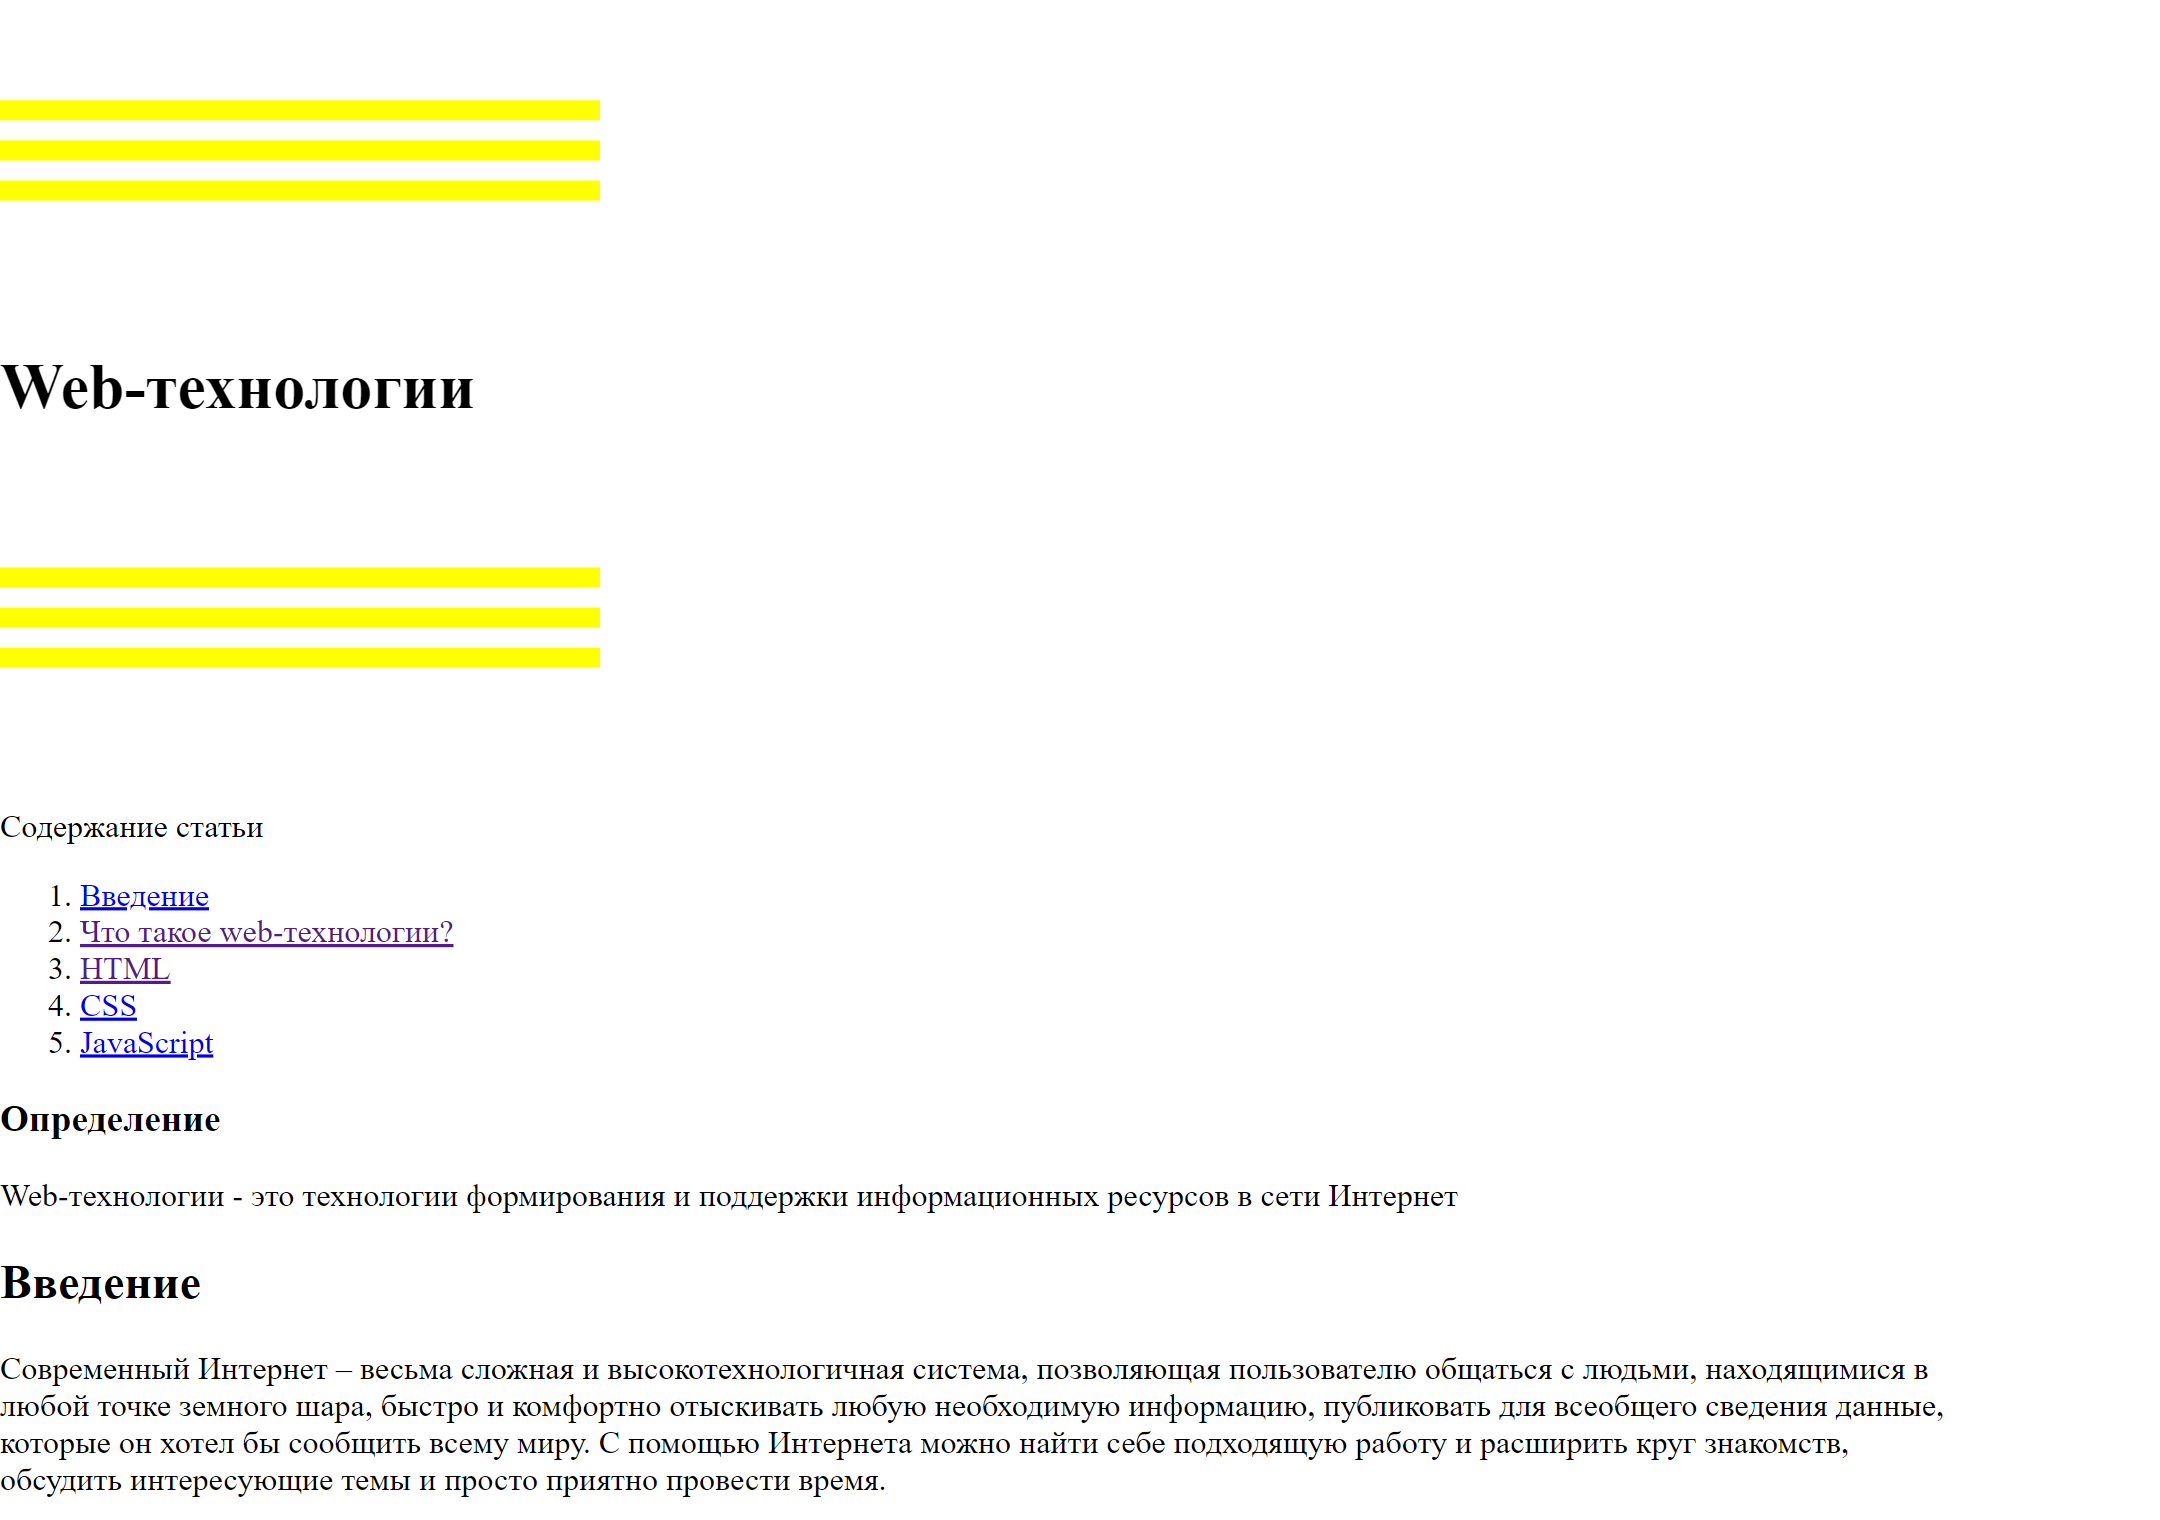
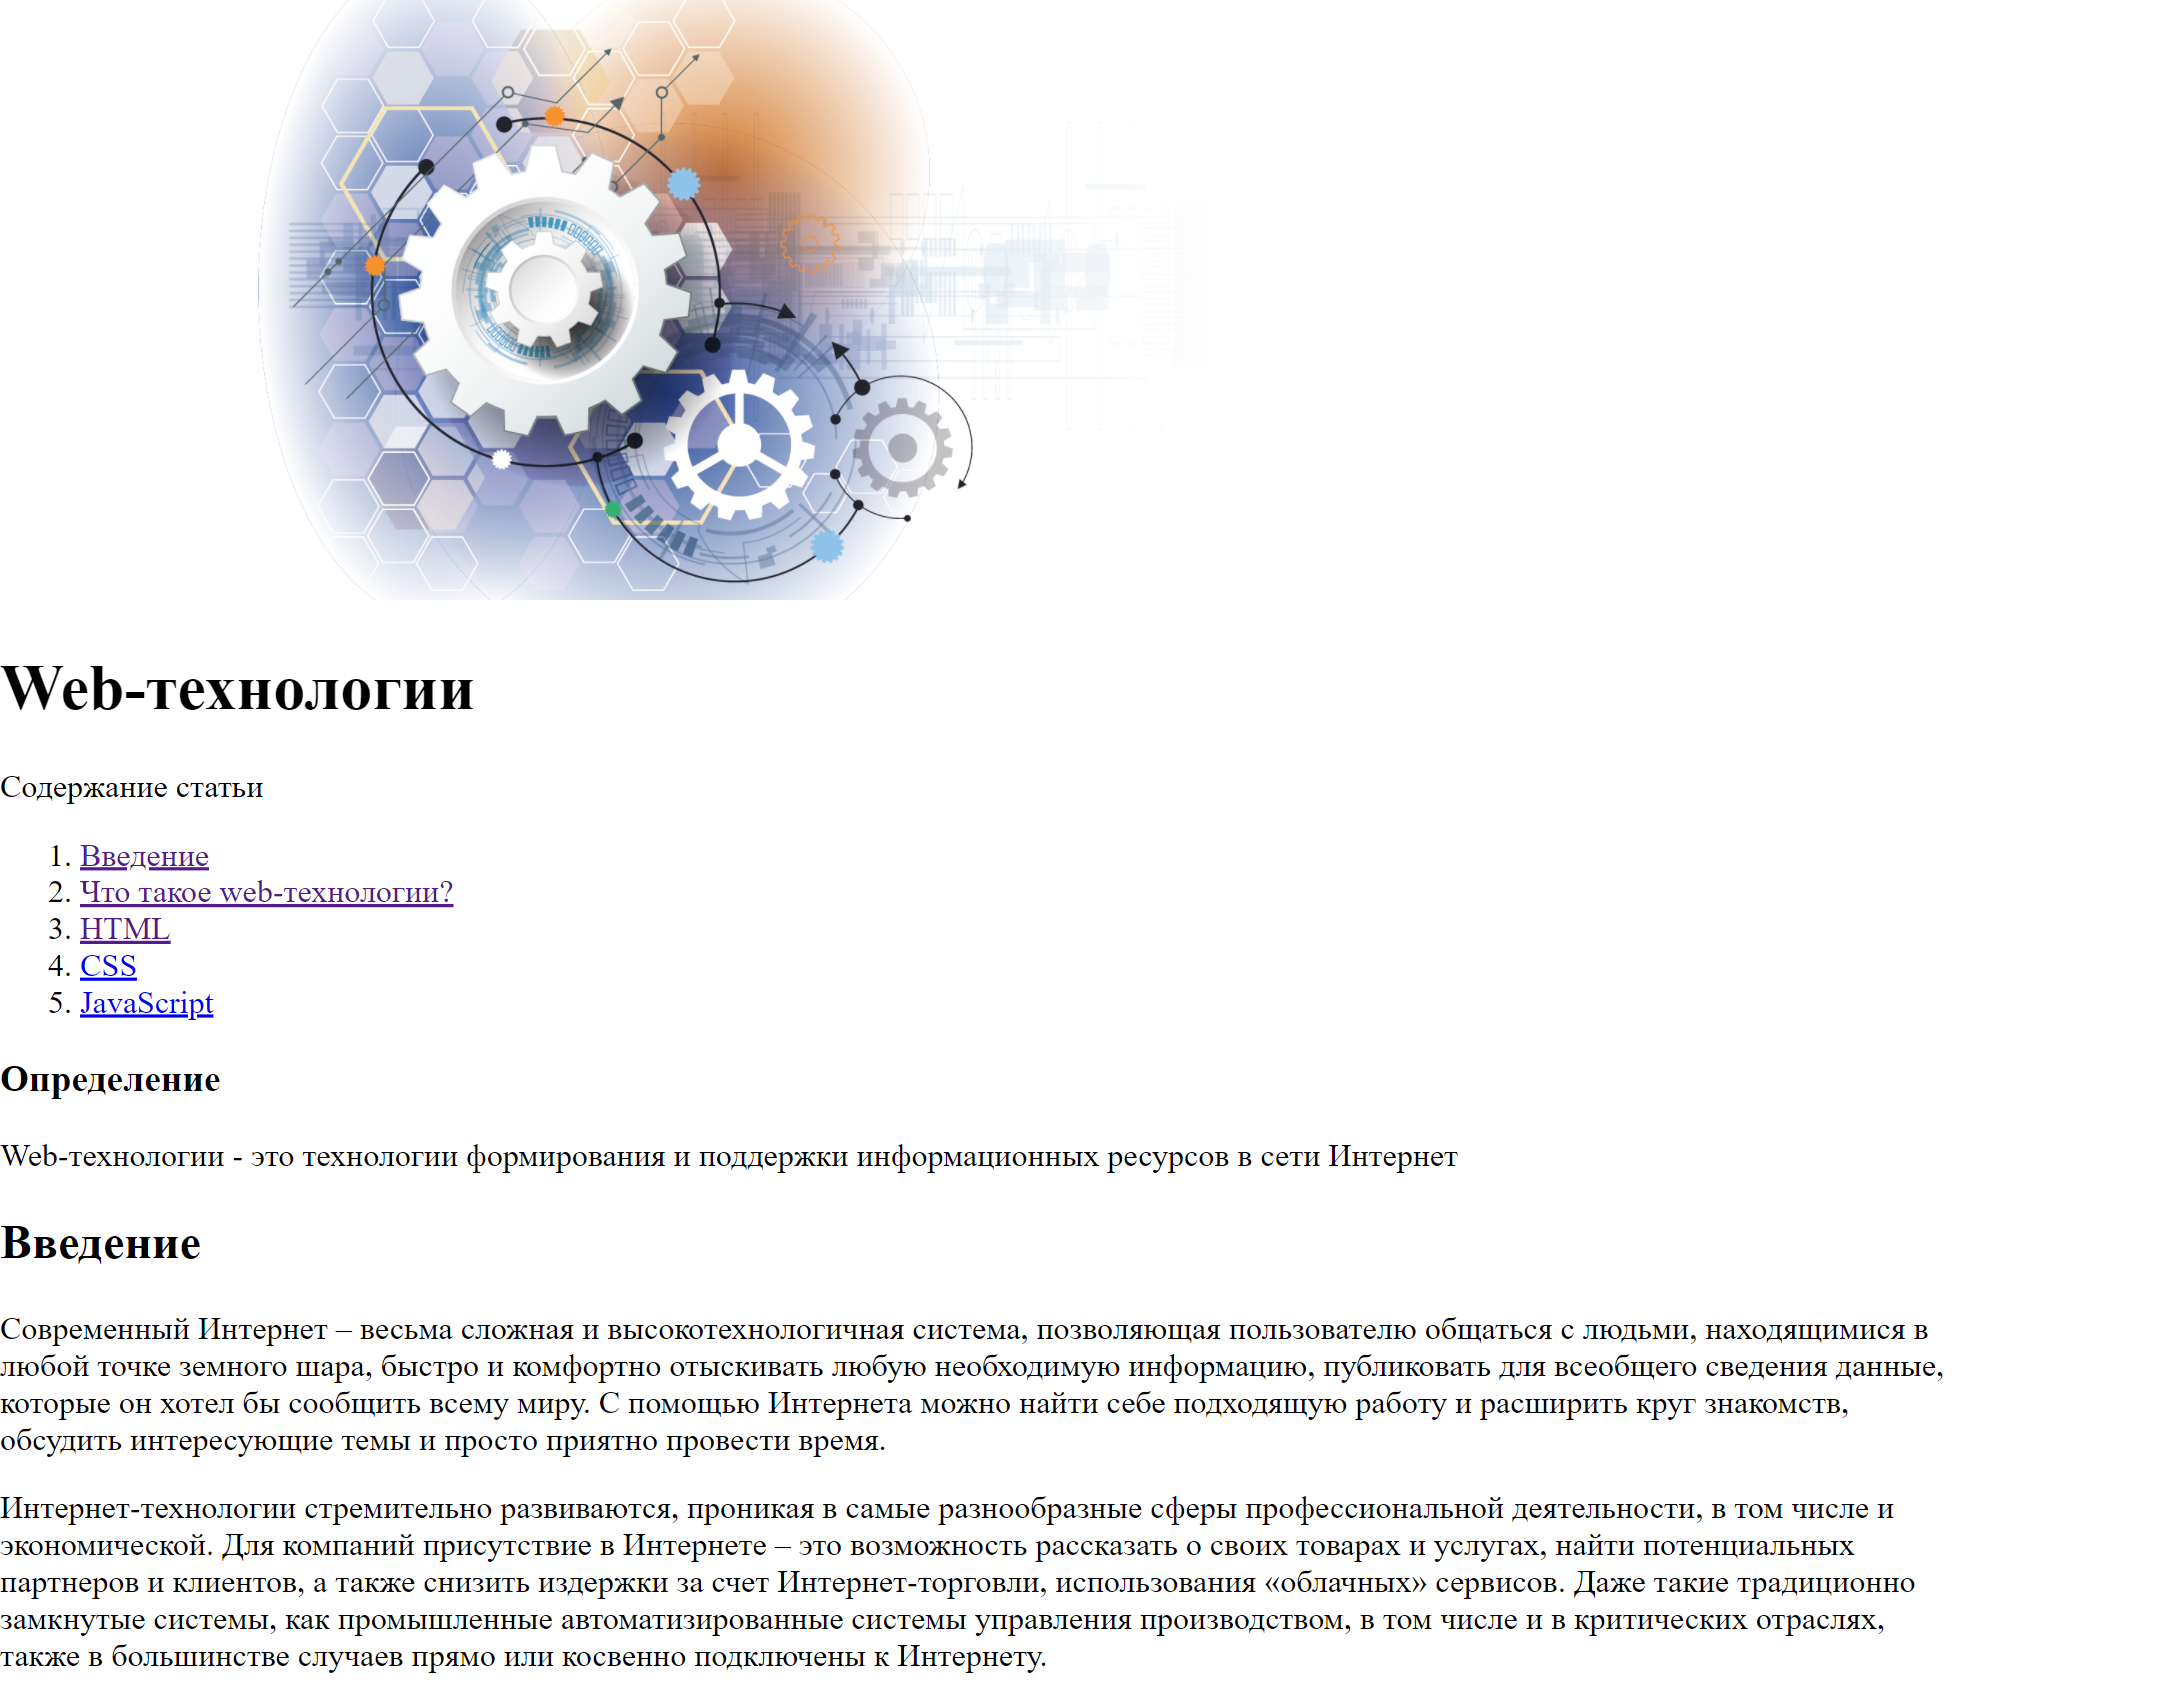
дополнения

Changed region(s): [[0.0, 0.0, 0.8995, 0.9895]]

diff --git a/index.html b/index.html
@@ -40,16 +40,19 @@
           любой точке земного шара, быстро и комфортно отыскивать любую необходимую информацию, публиковать для всеобщего сведения данные, которые он хотел бы сообщить всему миру. С помощью Интернета можно
           найти себе подходящую работу и расширить круг знакомств, обсудить интересующие темы и просто приятно провести время.
         </p>
+        <p>Интернет-технологии стремительно развиваются, проникая в самые разнообразные сферы профессиональной деятельности, в том числе и экономической. Для компаний присутствие в Интернете – это возможность рассказать о своих товарах и услугах, найти потенциальных партнеров и клиентов, а также снизить издержки за счет Интернет-торговли, использования «облачных» сервисов. Даже такие традиционно замкнутые системы, как промышленные автоматизированные системы управления производством, в том числе и в критических отраслях, также в большинстве случаев прямо или косвенно подключены к Интернету.</p>
         <div class="image">
           <img src="img\webtechnology.jpg" width="1080px" height="420px" alt="Технологии">
         </div>
-        <p>Интернет-технологии стремительно развиваются, проникая в самые разнообразные сферы профессиональной деятельности, в том числе и экономической. Для компаний присутствие в Интернете – это возможность рассказать о своих товарах и услугах, найти потенциальных партнеров и клиентов, а также снизить издержки за счет Интернет-торговли, использования «облачных» сервисов. Даже такие традиционно замкнутые системы, как промышленные автоматизированные системы управления производством, в том числе и в критических отраслях, также в большинстве случаев прямо или косвенно подключены к Интернету.</p>
 
         <h2 id="part2">Что такое web-технологии?</h2>
         <p>Под «веб-технологиями» обычно подразумеваются языки разметки, языки программирования, базы данных, системы и платформы CMS и другие технологии, которые позволяют создавать веб-сайты, приложения и магазины. Люди, которые делают это, называются веб-разработчиками или веб-мастерами.</p>
         <p>Есть два типа веб-технологий. Первый, так называемый front-end - это тот, который отвечают за внешний вид сайта, и виден в браузере пользователя. Такие технологии включают HTML, CSS, JavaScript. Второй тип веб-технологий - back-end, который работает на сервере и используется для обработки данных. Их действие обычно невидимо для пользователя, видны только введенные данные или действия, выполненные на веб-сайте, и результат этих данных или действий. Таким образом, весь процесс выполнения выходит за рамки браузера.</p>
 
-        <h2 id="part3">HTML</h2>
+        <div class="header-html">
+          <div class="html-logo"></div>
+          <h2 id="part3">HTML</h2>
+        </div>
         <section class="definition container">
           <h3>Определение</h3>
           <p>HTML (от английского HyperText Markup Language) — это язык гипертекстовой разметки страницы. Он используется для того, чтобы дать браузеру понять, как нужно отображать загруженный сайт.</p>
@@ -60,7 +63,10 @@
           <img src="img\screen-html.png" width="1050px" alt="Скриншот страницы HTML">
         </figure>
 
-        <h2 id="part4">CSS</h2>
+        <div class="header-css">
+          <div class="css-logo"></div>
+          <h2 id="part4">CSS</h2>
+        </div>
         <section class="definition container">
           <h3>Определение</h3>
           <p>CSS (Cascading Style Sheets, каскадные таблицы стилей) — язык описания внешнего вида HTML-документа.</p>
@@ -71,7 +77,10 @@
           <img src="img\screen-css.png" width="1050px" alt="Скриншот страницы HTML+CSS">
         </figure>
 
-        <h2 id="part5">JavaScript</h2>
+        <div class="header-js">
+          <div class="js-logo"></div>
+          <h2 id="part5">JavaScript</h2>
+        </div>
         <section class="definition container">
           <h3>Определение</h3>
           <p>JavaScript – это язык программирования, который добавляет интерактивность на ваш веб-сайт</p>

diff --git a/css/style.css b/css/style.css
@@ -122,8 +122,58 @@ main {
   line-height: 30px;
 }
 
-.content h2 {
-  margin-top: 50px ;
+.header-html {
+  position: relative;
+  width: 160px;
+  padding-top: 50px;
+  padding-bottom: 10px;
+}
+
+.html-logo {
+  position: absolute;
+  background-image: url(../img/html-logo.png);
+  background-size: 100%;
+  background-repeat: no-repeat;
+  height: 70px;
+  width: 70px;
+  right: 0;
+  margin-top: 5px;
+}
+
+.header-css {
+  position: relative;
+  width: 140px;
+  padding-top: 50px;
+  padding-bottom: 10px;
+}
+
+.css-logo {
+  position: absolute;
+  background-image: url(../img/css-logo.png);
+  background-size: 100%;
+  background-repeat: no-repeat;
+  height: 70px;
+  width: 70px;
+  right: 0;
+  margin-top: 5px;
+}
+
+.header-js {
+  position: relative;
+  width: 230px;
+  padding-top: 50px;
+  padding-bottom: 10px;
+}
+
+.js-logo {
+  position: absolute;
+  background-image: url(../img/js-logo.png);
+  background-size: 100%;
+  background-repeat: no-repeat;
+  height: 70px;
+  width: 70px;
+  right: 0;
+  margin-top: 5px;
 }
 
 .image {
